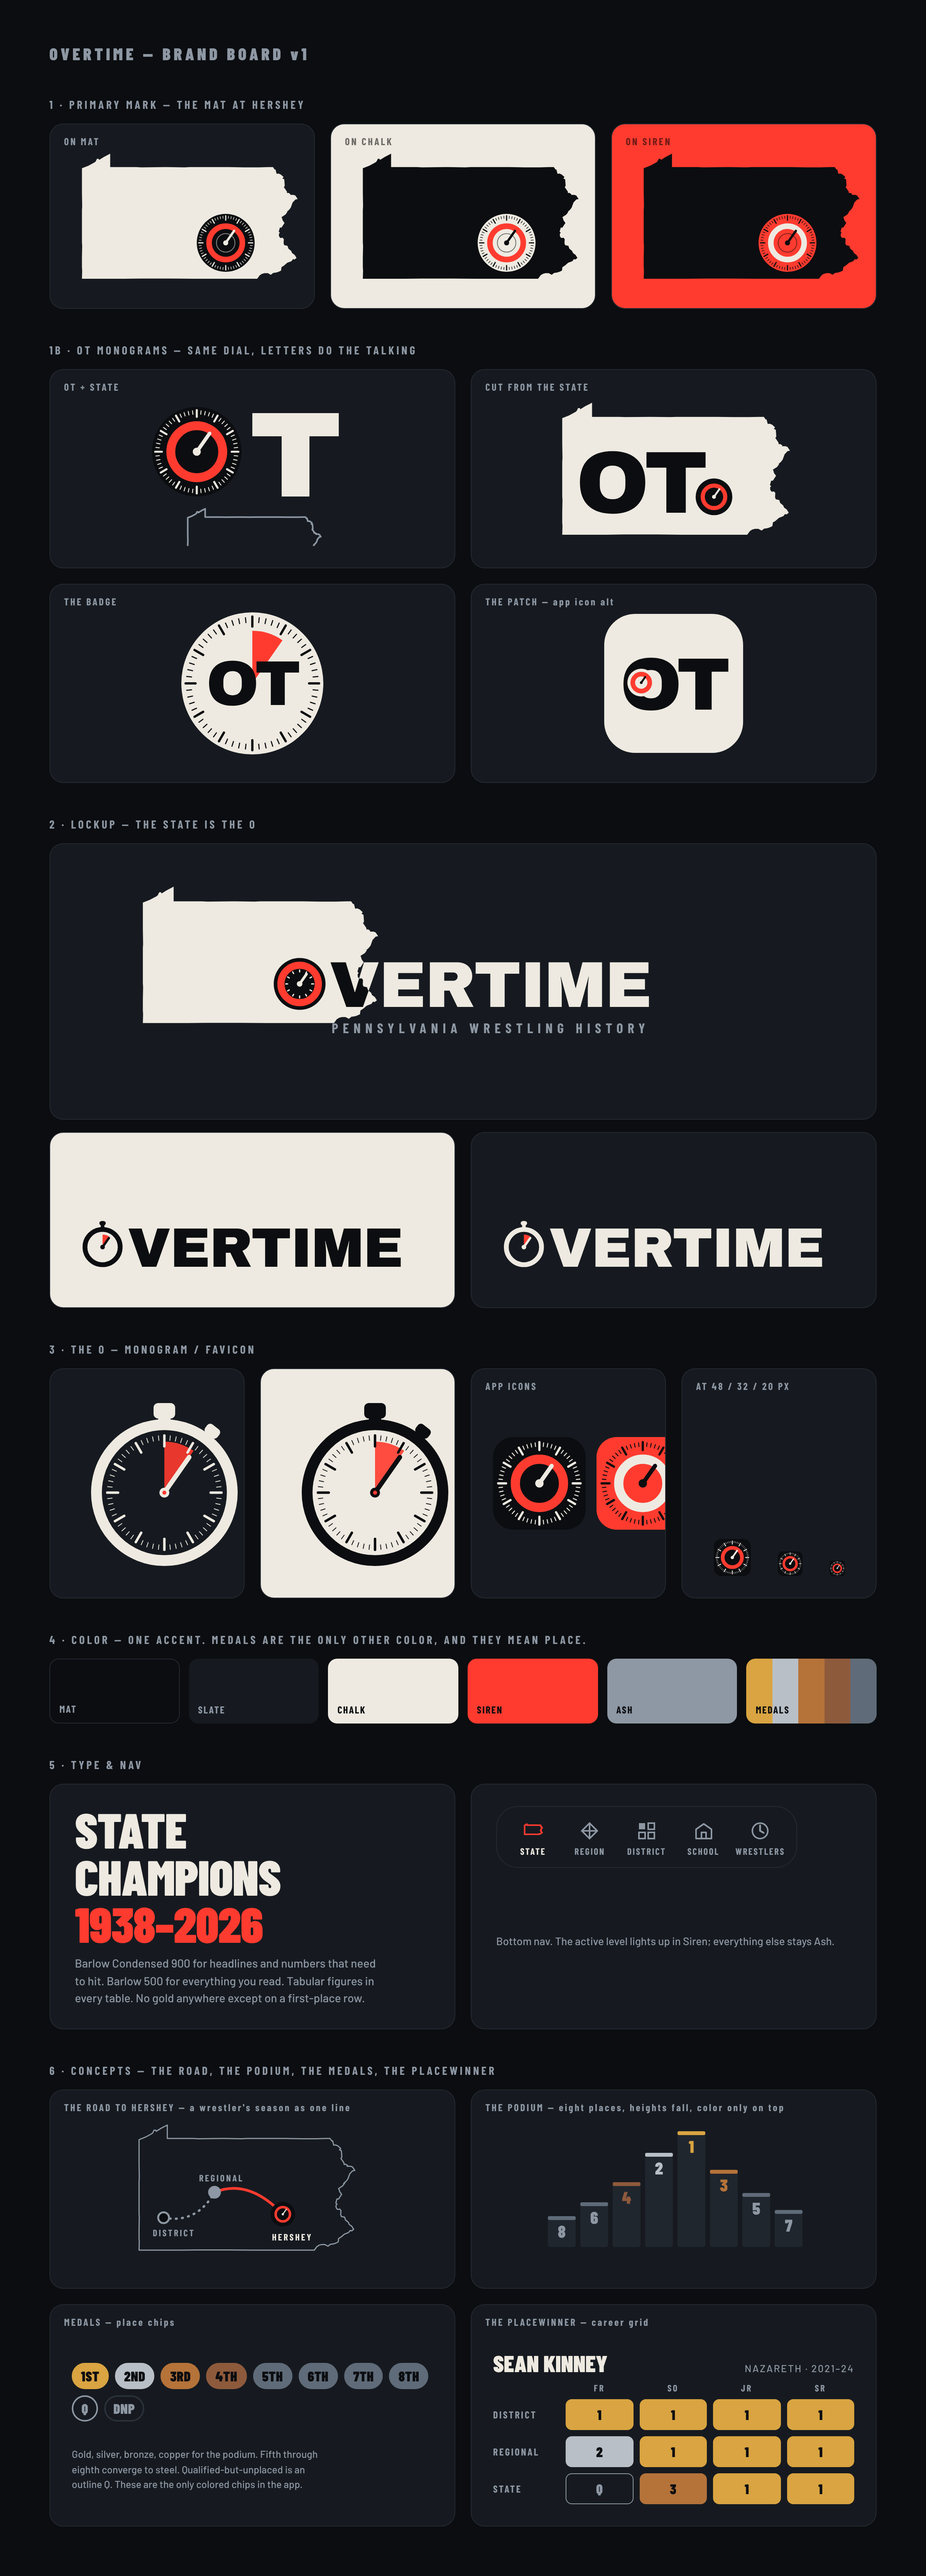
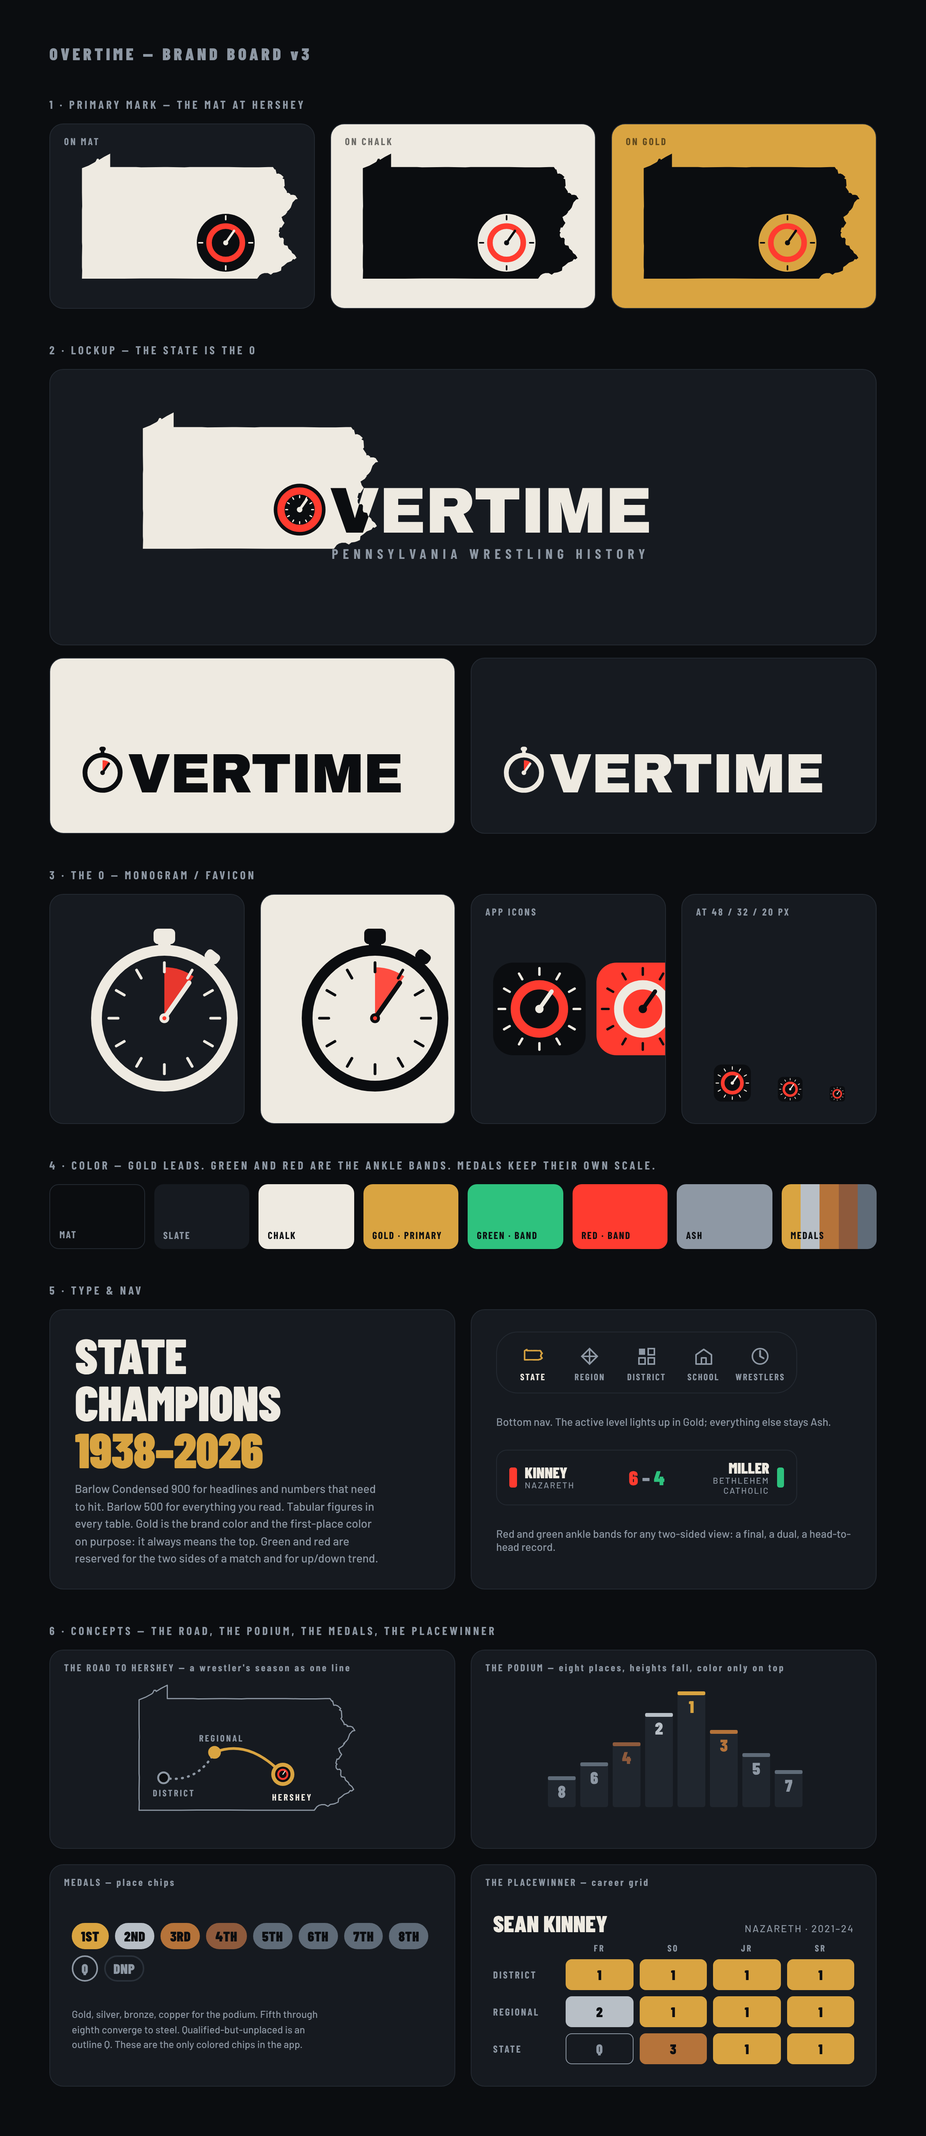
Brand board v3: gold primary, red/green bands, simplified dials, OT dropped
Claude-Session: https://claude.ai/code/session_018iXnCNz6ns95bNhNvYDXkL

Changed region(s): [[0.0312, 0.0, 0.9688, 0.8703], [0.5312, 0.777, 0.9375, 0.9946], [0.0625, 0.9013, 0.4688, 0.9635]]

diff --git a/brand/board.html b/brand/board.html
@@ -7,7 +7,7 @@
 @font-face{font-family:'Barlow Condensed';font-weight:600;src:url(node_modules/@fontsource/barlow-condensed/files/barlow-condensed-latin-600-normal.woff2)}
 @font-face{font-family:'Barlow';font-weight:500;src:url(node_modules/@fontsource/barlow/files/barlow-latin-500-normal.woff2)}
 @font-face{font-family:'Barlow';font-weight:600;src:url(node_modules/@fontsource/barlow/files/barlow-latin-600-normal.woff2)}
-:root{--mat:#0B0D10;--slate:#161A20;--line:#242A32;--chalk:#EEEAE1;--ash:#8E98A4;--siren:#FF3B2F;--gold:#D9A441;--silver:#B8BFC6;--bronze:#B5733A;--copper:#8E5A3C;--steel:#5F6B78}
+:root{--mat:#0B0D10;--slate:#161A20;--line:#242A32;--chalk:#EEEAE1;--ash:#8E98A4;--siren:#FF3B2F;--green:#2EC27E;--gold:#D9A441;--silver:#B8BFC6;--bronze:#B5733A;--copper:#8E5A3C;--steel:#5F6B78}
 *{box-sizing:border-box}
 body{margin:0;background:var(--mat);color:var(--chalk);font-family:Barlow,sans-serif;width:1200px}
 .board{padding:56px 64px 64px;display:grid;gap:44px}
@@ -17,10 +17,10 @@ h1{font-family:'Barlow Condensed';font-weight:900;font-size:22px;letter-spacing:
 .row{display:grid;grid-template-columns:repeat(var(--n,2),minmax(0,1fr));gap:20px}
 .tile{overflow:hidden;background:var(--slate);border:1px solid var(--line);border-radius:18px;padding:28px;display:grid;place-items:center;gap:18px;position:relative;min-height:240px}
 .tile.chalk{background:var(--chalk)}
-.tile.red{background:var(--siren)}
+.tile.red{background:var(--siren)}.tile.gold{background:var(--gold)}
 .cap{position:absolute;left:18px;top:14px;font-family:'Barlow Condensed';font-weight:700;font-size:13px;letter-spacing:.16em;color:var(--ash)}
-.tile.chalk .cap,.tile.red .cap{color:rgba(0,0,0,.55)}
-.sw{display:grid;grid-template-columns:repeat(6,1fr);gap:12px}
+.tile.chalk .cap,.tile.red .cap,.tile.gold .cap{color:rgba(0,0,0,.55)}
+.sw{display:grid;grid-template-columns:repeat(8,1fr);gap:12px}
 .sw div{height:84px;border-radius:12px;position:relative;font-family:'Barlow Condensed';font-weight:700;font-size:13px;letter-spacing:.1em}
 .sw span{position:absolute;left:12px;bottom:10px}
 .type{display:grid;grid-template-columns:1fr 1fr;gap:20px}
@@ -33,7 +33,7 @@ h1{font-family:'Barlow Condensed';font-weight:900;font-size:22px;letter-spacing:
 <script>
 const PA="M71.9,55L66.6,55L63.1,55L59.7,55L56.2,55L52.4,55L52.2,55L42.2,54.9L38.3,54.9L37.6,54.9L30.8,54.9L28.9,54.9L21.5,55L20.1,55L15.6,55L13.1,55L5.1,55L3.4,55L3.5,51.4L3.4,50L3.4,48.8L3.4,45.8L3.5,40.8L3.4,39.2L3.4,35.8L3.4,31.3L3.4,30.3L3.4,25.5L3.4,25.3L3.5,23.7L3.4,17.8L3.4,17.5L3.4,10L3.4,7.3L6.2,6.2L8.8,4.8L9.3,4.4L9.9,3.2L10.6,3.2L10.8,3.7L12.9,2.4L15.6,1L15.6,6.8L18,6.8L26.8,6.8L29,6.9L38.8,6.8L40.4,6.8L47.7,6.9L50,6.8L57.7,6.8L60.2,6.8L60.9,6.8L66.8,6.8L73.4,6.9L74,6.9L79.8,6.9L83.9,6.8L85.3,6.8L85.9,6.8L86.7,7.9L87,7.8L87.5,9.7L88.3,9.6L89.3,10L90.5,11.1L90,11.7L90.8,12.1L91,14.9L90.6,15.4L91.9,17.3L92,18L92.6,17.9L93.5,18.5L93.3,18.8L94.8,18.8L95.6,19.1L96.6,20.6L95.6,20.8L94.4,22.1L93.6,24.3L92.9,25.2L91.8,26.2L92.2,26.1L91.3,27.3L89.6,28.4L89.8,28.8L90.1,29.8L90.9,30.9L89.6,32.9L88.9,32.9L88.4,34.7L88.9,35.1L88.5,35.6L88.5,36.4L88.6,36.8L89.1,37.4L90.1,37.3L90.6,37.9L90.5,39.7L90.8,40.5L92.2,40.8L92.6,42L93.8,43L94.2,43.9L95.3,44.7L96.1,46L95.2,46.7L94.6,46.5L93.9,47.4L92.1,48.1L90.7,49.3L89.6,50L89.4,51.5L88.3,52L87.4,52.3L86,52.5L85,53.3L83.7,52.6L82.2,52.6L81.1,52.9L80.2,53.5L79.1,55L73.5,55L72,55Z";
 const HX=65.5,HY=39.5; // Hershey
-const C={mat:'#0B0D10',chalk:'#EEEAE1',siren:'#FF3B2F',ash:'#8E98A4',slate:'#161A20'};
+const C={mat:'#0B0D10',chalk:'#EEEAE1',siren:'#FF3B2F',gold:'#D9A441',green:'#2EC27E',ash:'#8E98A4',slate:'#161A20'};
 const ticks=(cx,cy,r1,r2,n,col,w)=>Array.from({length:n},(_,i)=>{const a=i/n*2*Math.PI-Math.PI/2;return `<line x1="${cx+r1*Math.cos(a)}" y1="${cy+r1*Math.sin(a)}" x2="${cx+r2*Math.cos(a)}" y2="${cy+r2*Math.sin(a)}" stroke="${col}" stroke-width="${w}" stroke-linecap="round"/>`}).join('');
 const hand=(cx,cy,len,deg,col,w)=>{const a=(deg-90)*Math.PI/180;return `<line x1="${cx}" y1="${cy}" x2="${cx+len*Math.cos(a)}" y2="${cy+len*Math.sin(a)}" stroke="${col}" stroke-width="${w}" stroke-linecap="round"/>`};
 // A — mat at Hershey, detailed
@@ -41,10 +41,9 @@ function markA(state=C.chalk,bg=C.mat,ring=C.siren,size=1){
   return `<svg width="${300*size}" height="${180*size}" viewBox="0 0 100 60"><g transform="translate(1,2)">
   <path d="${PA}" fill="${state}"/>
   <circle cx="${HX}" cy="${HY}" r="12.5" fill="${bg}"/>
-  ${ticks(HX,HY,10.6,11.6,60,state,0.25)}${ticks(HX,HY,9.8,11.7,12,state,0.5)}
+  ${ticks(HX,HY,10,11.6,4,state,0.7)}
   <circle cx="${HX}" cy="${HY}" r="7.2" fill="none" stroke="${ring}" stroke-width="2.4"/>
-  <circle cx="${HX}" cy="${HY}" r="4" fill="none" stroke="${state}" stroke-width="0.35" opacity=".55"/>
-  ${hand(HX,HY,6.3,35,state,1)}<circle cx="${HX}" cy="${HY}" r="1.1" fill="${state}"/>
+    ${hand(HX,HY,6.3,35,state,1)}<circle cx="${HX}" cy="${HY}" r="1.1" fill="${state}"/>
   </g></svg>`;
 }
 // B — the state is the O
@@ -70,7 +69,7 @@ function markC(ring=C.siren,fg=C.chalk,bg=C.mat){
   <g transform="rotate(38 ${cx} ${cy})"><rect x="${cx-5}" y="${cy-R-10}" width="10" height="7" rx="2.5" fill="${fg}"/></g>
   <circle cx="${cx}" cy="${cy}" r="${R}" fill="none" stroke="${fg}" stroke-width="7"/>
   <path d="M ${cx} ${cy-R+11} A ${R-11} ${R-11} 0 0 1 ${cx+(R-11)*Math.sin(35*Math.PI/180)} ${cy-(R-11)*Math.cos(35*Math.PI/180)} L ${cx} ${cy} Z" fill="${ring}" opacity=".9"/>
-  ${ticks(cx,cy,R-10,R-7,60,fg,0.5)}${ticks(cx,cy,R-14,R-7,12,fg,1.6)}
+  ${ticks(cx,cy,R-14,R-8,12,fg,1.8)}
   ${hand(cx,cy,R-16,35,fg,3)}<circle cx="${cx}" cy="${cy}" r="3.2" fill="${fg}"/><circle cx="${cx}" cy="${cy}" r="1.3" fill="${ring}"/>
   </svg>`;
 }
@@ -88,7 +87,7 @@ function markD(fg=C.chalk,ring=C.siren,bg=C.mat,F=92){
 function iconTile(bg,inner,r=22,size=120){return `<div style="width:${size}px;height:${size}px;border-radius:${r}px;background:${bg};display:grid;place-items:center;overflow:hidden">${inner}</div>`}
 function iconA(state,bg,ring,size){ // app icon: the dial alone
   const r=size/2, k=size/100;
-  return `<svg width="${size}" height="${size}" viewBox="0 0 100 100">${ticks(50,50,40,44,60,state,1)}${ticks(50,50,36,44.5,12,state,2.4)}<circle cx="50" cy="50" r="26" fill="none" stroke="${ring}" stroke-width="10"/>${hand(50,50,23,35,state,4.5)}<circle cx="50" cy="50" r="4.5" fill="${state}"/></svg>`}
+  return `<svg width="${size}" height="${size}" viewBox="0 0 100 100">${ticks(50,50,37,44,12,state,2.6)}<circle cx="50" cy="50" r="26" fill="none" stroke="${ring}" stroke-width="10"/>${hand(50,50,23,35,state,4.5)}<circle cx="50" cy="50" r="4.5" fill="${state}"/></svg>`}
 const navIcon={
  state:`<path d="${PA}" transform="translate(1,4) scale(.245)" fill="none" stroke="currentColor" stroke-width="8" stroke-linejoin="round"/>`,
  region:`<path d="M3 13 L13 3 L23 13 L13 23 Z M3 13 H23 M13 3 V23" fill="none" stroke="currentColor" stroke-width="2"/>`,
@@ -133,10 +132,10 @@ function road(){ // the road to Hershey
   return `<svg width="330" height="200" viewBox="0 0 330 200">
   <g transform="translate(${X},${Y}) scale(${s})"><path d="${PA}" fill="${C.slate}" stroke="${C.ash}" stroke-width=".5" stroke-linejoin="round"/></g>
   <path d="M${dx} ${dy} Q ${(dx+rx)/2+10} ${dy+8} ${rx} ${ry}" fill="none" stroke="${C.ash}" stroke-width="3" stroke-dasharray="1 7" stroke-linecap="round"/>
-  <path d="M${rx} ${ry} Q ${(rx+hx)/2} ${ry-18} ${hx} ${hy}" fill="none" stroke="${C.siren}" stroke-width="3.5" stroke-linecap="round"/>
+  <path d="M${rx} ${ry} Q ${(rx+hx)/2} ${ry-18} ${hx} ${hy}" fill="none" stroke="${C.gold}" stroke-width="3.5" stroke-linecap="round"/>
   <circle cx="${dx}" cy="${dy}" r="7" fill="${C.mat}" stroke="${C.ash}" stroke-width="2.5"/>
-  <circle cx="${rx}" cy="${ry}" r="7" fill="${C.ash}" stroke="${C.ash}" stroke-width="2.5"/>
-  ${dial(hx,hy,16,C.chalk,C.siren,C.mat,false)}
+  <circle cx="${rx}" cy="${ry}" r="7" fill="${C.gold}" stroke="${C.gold}" stroke-width="2.5"/>
+  <circle cx="${hx}" cy="${hy}" r="15" fill="${C.gold}"/><circle cx="${hx}" cy="${hy}" r="10" fill="${C.mat}"/><circle cx="${hx}" cy="${hy}" r="6" fill="none" stroke="${C.siren}" stroke-width="2.4"/>${hand(hx,hy,5,35,C.chalk,1.2)}
   <g font-family="'Barlow Condensed'" font-weight="700" font-size="12" letter-spacing="2" fill="${C.ash}"><text x="${dx-14}" y="${dy+24}">DISTRICT</text><text x="${rx-20}" y="${ry-14}">REGIONAL</text><text x="${hx-14}" y="${hy+34}" fill="${C.chalk}">HERSHEY</text></g>
   </svg>`}
 const MED=['#D9A441','#B8BFC6','#B5733A','#8E5A3C','#5F6B78','#5F6B78','#5F6B78','#5F6B78'];
@@ -160,19 +159,13 @@ function placewinner(){ // wrestler medal grid: FR SO JR SR slots per level
    ${row('DISTRICT',[1,1,1,1])}${row('REGIONAL',[2,1,1,1])}${row('STATE',['Q',3,1,1])}
    </div></div>`}
 
-const sw=[['Mat','#0B0D10;border:1px solid #242A32','#8E98A4'],['Slate','#161A20','#8E98A4'],['Chalk','#EEEAE1','#0B0D10'],['Siren','#FF3B2F','#0B0D10'],['Ash','#8E98A4','#0B0D10'],['Medals','linear-gradient(90deg,#D9A441 0 20%,#B8BFC6 0 40%,#B5733A 0 60%,#8E5A3C 0 80%,#5F6B78 0)','#0B0D10']];
+const sw=[['Mat','#0B0D10;border:1px solid #242A32','#8E98A4'],['Slate','#161A20','#8E98A4'],['Chalk','#EEEAE1','#0B0D10'],['Gold · primary','#D9A441','#0B0D10'],['Green · band','#2EC27E','#0B0D10'],['Red · band','#FF3B2F','#0B0D10'],['Ash','#8E98A4','#0B0D10'],['Medals','linear-gradient(90deg,#D9A441 0 20%,#B8BFC6 0 40%,#B5733A 0 60%,#8E5A3C 0 80%,#5F6B78 0)','#0B0D10']];
 document.getElementById('b').innerHTML=`
-<h1>OVERTIME — BRAND BOARD v1</h1>
+<h1>OVERTIME — BRAND BOARD v3</h1>
 <div class="sec"><h2>1 · PRIMARY MARK — THE MAT AT HERSHEY</h2><div class="row" style="--n:3">
  <div class="tile"><span class="cap">ON MAT</span>${markA()}</div>
  <div class="tile chalk"><span class="cap">ON CHALK</span>${markA(C.mat,C.chalk,C.siren)}</div>
- <div class="tile red"><span class="cap">ON SIREN</span>${markA(C.mat,C.siren,C.chalk)}</div>
-</div></div>
-<div class="sec"><h2>1B · OT MONOGRAMS — SAME DIAL, LETTERS DO THE TALKING</h2><div class="row" style="--n:2">
- <div class="tile"><span class="cap">OT + STATE</span>${otA()}</div>
- <div class="tile"><span class="cap">CUT FROM THE STATE</span>${otB()}</div>
- <div class="tile"><span class="cap">THE BADGE</span>${otC()}</div>
- <div class="tile"><span class="cap">THE PATCH — app icon alt</span>${otD()}</div>
+ <div class="tile gold"><span class="cap">ON GOLD</span>${markA(C.mat,C.gold,C.siren)}</div>
 </div></div>
 <div class="sec"><h2>2 · LOCKUP — THE STATE IS THE O</h2><div class="row" style="--n:1"><div class="tile" style="min-height:260px">${markB()}</div></div>
 <div class="row" style="--n:2"><div class="tile chalk" style="min-height:200px">${markD(C.mat,C.siren,C.chalk,72)}</div><div class="tile" style="min-height:200px">${markD(C.chalk,C.siren,C.mat,72)}</div></div></div>
@@ -182,10 +175,10 @@ document.getElementById('b').innerHTML=`
  <div class="tile" style="gap:14px;grid-auto-flow:column;align-items:center"><span class="cap">APP ICONS</span>${iconTile(C.mat,iconA(C.chalk,C.mat,C.siren,120),26)}${iconTile(C.siren,iconA(C.mat,C.siren,C.chalk,120),26)}</div>
  <div class="tile" style="gap:10px;grid-auto-flow:column;align-items:end"><span class="cap">AT 48 / 32 / 20 PX</span>${iconTile(C.mat,iconA(C.chalk,C.mat,C.siren,48),10,48)}${iconTile(C.mat,iconA(C.chalk,C.mat,C.siren,32),7,32)}${iconTile(C.mat,iconA(C.chalk,C.mat,C.siren,20),4,20)}</div>
 </div></div>
-<div class="sec"><h2>4 · COLOR — ONE ACCENT. MEDALS ARE THE ONLY OTHER COLOR, AND THEY MEAN PLACE.</h2><div class="sw">${sw.map(([n,c,t])=>`<div style="background:${c};color:${t}"><span>${n.toUpperCase()}</span></div>`).join('')}</div></div>
+<div class="sec"><h2>4 · COLOR — GOLD LEADS. GREEN AND RED ARE THE ANKLE BANDS. MEDALS KEEP THEIR OWN SCALE.</h2><div class="sw">${sw.map(([n,c,t])=>`<div style="background:${c};color:${t}"><span>${n.toUpperCase()}</span></div>`).join('')}</div></div>
 <div class="sec"><h2>5 · TYPE &amp; NAV</h2><div class="type">
- <div class="tile"><div style="font-family:'Barlow Condensed';font-weight:900;font-size:64px;line-height:.95;letter-spacing:-.01em">STATE<br>CHAMPIONS<br><span style="color:var(--siren)">1938–2026</span></div><div style="color:var(--ash);font-size:15px;line-height:1.5;max-width:400px">Barlow Condensed 900 for headlines and numbers that need to hit. Barlow 500 for everything you read. Tabular figures in every table. No gold anywhere except on a first-place row.</div></div>
- <div class="tile"><div class="nav">${[['state','STATE',1],['region','REGION'],['district','DISTRICT'],['school','SCHOOL'],['wrestler','WRESTLERS']].map(([k,l,on])=>`<div class="${on?'on':''}"><svg viewBox="0 0 26 26" style="color:${on?C.siren:'currentColor'}">${navIcon[k]}</svg>${l}</div>`).join('')}</div><div style="color:var(--ash);font-size:14px">Bottom nav. The active level lights up in Siren; everything else stays Ash.</div></div></div>
+ <div class="tile"><div style="font-family:'Barlow Condensed';font-weight:900;font-size:64px;line-height:.95;letter-spacing:-.01em">STATE<br>CHAMPIONS<br><span style="color:var(--gold)">1938–2026</span></div><div style="color:var(--ash);font-size:15px;line-height:1.5;max-width:400px">Barlow Condensed 900 for headlines and numbers that need to hit. Barlow 500 for everything you read. Tabular figures in every table. Gold is the brand color and the first-place color on purpose: it always means the top. Green and red are reserved for the two sides of a match and for up/down trend.</div></div>
+ <div class="tile"><div class="nav">${[['state','STATE',1],['region','REGION'],['district','DISTRICT'],['school','SCHOOL'],['wrestler','WRESTLERS']].map(([k,l,on])=>`<div class="${on?'on':''}"><svg viewBox="0 0 26 26" style="color:${on?C.gold:'currentColor'}">${navIcon[k]}</svg>${l}</div>`).join('')}</div><div style="color:var(--ash);font-size:14px">Bottom nav. The active level lights up in Gold; everything else stays Ash.</div><div style="width:390px;display:grid;grid-template-columns:1fr auto 1fr;align-items:center;gap:12px;background:var(--slate);border:1px solid var(--line);border-radius:14px;padding:12px 16px"><div style="display:flex;align-items:center;gap:10px"><span style="width:10px;height:26px;border-radius:3px;background:var(--siren)"></span><div><div style="font-family:'Barlow Condensed';font-weight:900;font-size:20px;line-height:1">KINNEY</div><div style="font-size:11px;color:var(--ash);letter-spacing:.12em">NAZARETH</div></div></div><div style="font-family:'Barlow Condensed';font-weight:900;font-size:26px"><span style="color:var(--siren)">6</span><span style="color:var(--ash)"> – </span><span style="color:var(--green)">4</span></div><div style="display:flex;align-items:center;gap:10px;justify-content:end;text-align:right"><div><div style="font-family:'Barlow Condensed';font-weight:900;font-size:20px;line-height:1">MILLER</div><div style="font-size:11px;color:var(--ash);letter-spacing:.12em">BETHLEHEM CATHOLIC</div></div><span style="width:10px;height:26px;border-radius:3px;background:var(--green)"></span></div></div><div style="color:var(--ash);font-size:14px">Red and green ankle bands for any two-sided view: a final, a dual, a head-to-head record.</div></div></div>
 </div></div>
 <div class="sec"><h2>6 · CONCEPTS — THE ROAD, THE PODIUM, THE MEDALS, THE PLACEWINNER</h2><div class="row" style="--n:2">
  <div class="tile"><span class="cap">THE ROAD TO HERSHEY — a wrestler's season as one line</span>${road()}</div>
